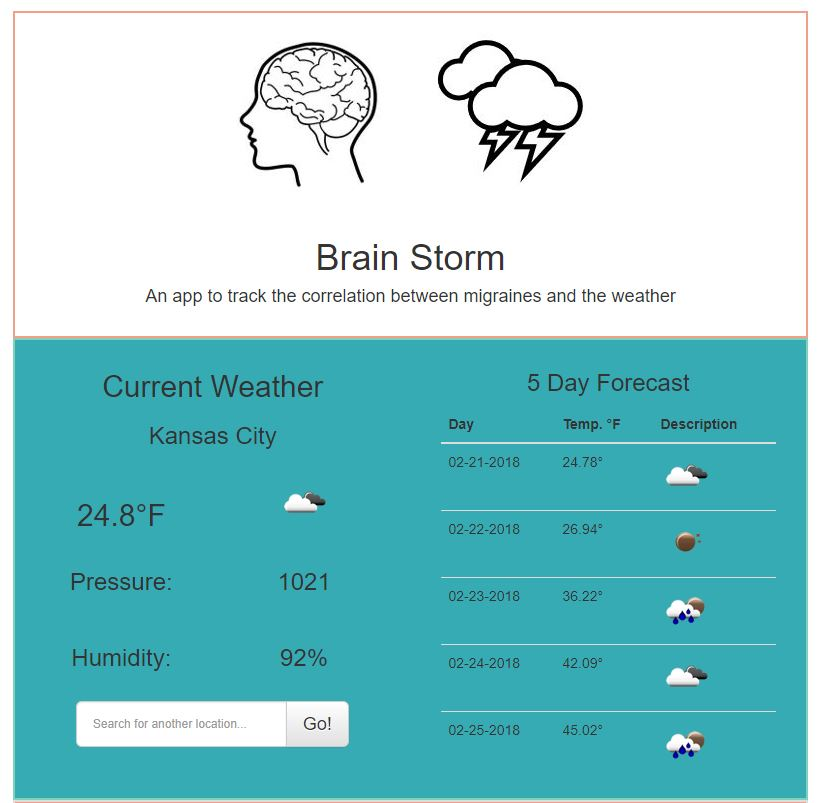
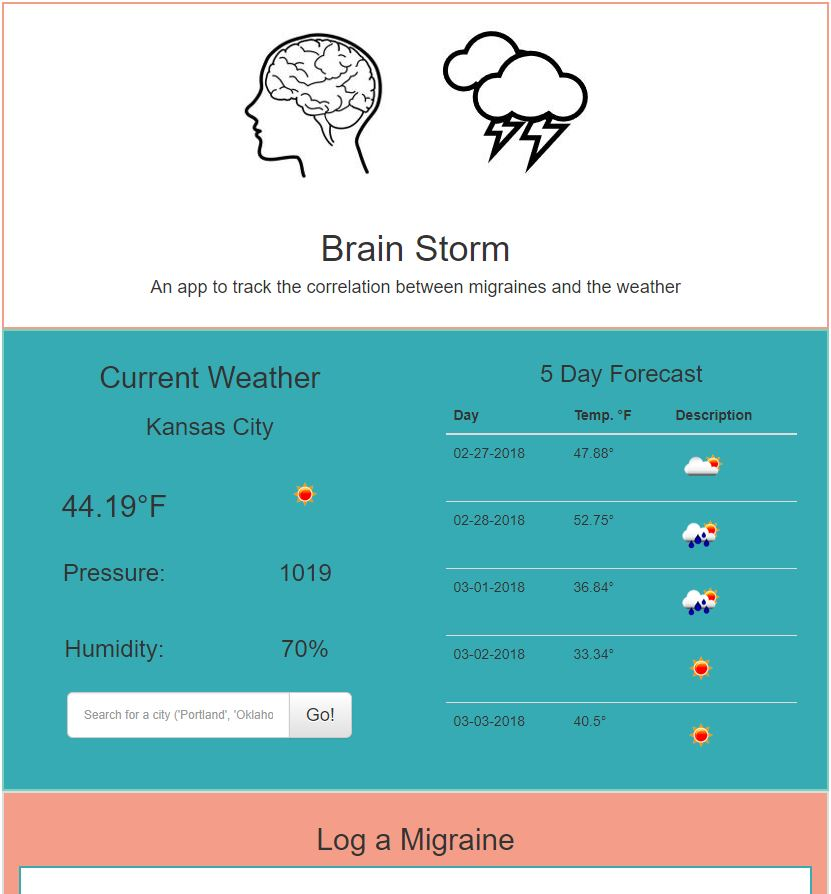
portfolio images

diff --git a/index.html b/index.html
@@ -393,7 +393,9 @@
 
 	         	<div class="bgrid folio-item">
 	               <div class="item-wrap">
-	               	<img src="images/currency-converter.JPG" alt="Currency">
+	               	<img src="images/$-2.JPG" alt="Currency">
+                  <img src="images/$-2.JPG" alt="Currency">
+                  <img src="images/$-2.JPG" alt="Currency">
 	                  <a href="#modal-01" class="overlay">
 	                     <div class="folio-item-table">
 	                     	<div class="folio-item-cell">
@@ -409,7 +411,7 @@
 
               <div class="bgrid folio-item">
 	               <div class="item-wrap">
-	               	<img src="images/portfolio/beetle.jpg" alt="Beetle">
+	               	<img src="images/whole30.JPG" alt="whole30">
 	                  <a href="#modal-04" class="overlay">
 	                     <div class="folio-item-table">
 	                     	<div class="folio-item-cell">
@@ -425,7 +427,7 @@
 
 	            <div class="bgrid folio-item">
 	               <div class="item-wrap">
-	               	<img src="images/brain-storm-1.JPG" alt="Brain Storm">
+	               	<img src="images/brainstormimage.JPG" alt="Brain Storm">
 	                  <a href="#modal-03" class="overlay">
 	                     <div class="folio-item-table">
 	                     	<div class="folio-item-cell">
@@ -441,7 +443,7 @@
 
               <div class="bgrid folio-item">
 	               <div class="item-wrap">
-	               	<img src="images/portfolio/shutterbug.jpg" alt="Shutterbug">
+	               	<img src="images/tv2.JPG" alt="TV">
 	               	<a href="#modal-02" class="overlay">
 	                     <div class="folio-item-table">
 	                     	<div class="folio-item-cell">
@@ -457,7 +459,7 @@
 
 	        		<div class="bgrid folio-item">
 	               <div class="item-wrap">
-	               	<img src="images/portfolio/lighthouse.jpg" alt="Lighthouse">
+	               	<img src="images/food-2.JPG" alt="Food Quiz">
 	                  <a href="#modal-05" class="overlay">
 	                     <div class="folio-item-table">
 	                     	<div class="folio-item-cell">
@@ -471,141 +473,115 @@
 	               </div>
 	        		</div> <!-- /folio-item -->
 
-	            <div class="bgrid folio-item">
+	          <!--  <div class="bgrid folio-item">
 	               <div class="item-wrap">
-	               	<img src="images/portfolio/salad.jpg" alt="Salad">
+	               	<img src="images/portfolio/clouds.jpg" alt="TBD">
 	                  <a href="#modal-06" class="overlay">
-	                     <div class="folio-item-table">
+	                    <div class="folio-item-table">
 	                     	<div class="folio-item-cell">
-	                     		<h3 class="folio-title">Salad</h3>
-		     					    	<span class="folio-types">
-		     					       	  Branding
-		     					      </span>
-		     					   </div>
-	                     </div>
+	                     		<h3 class="folio-title">TBD</h3>
+		     					    	  <span class="folio-types">
+		     					       	  TBD
+		     					        </span>
+		     					      </div>
+	                    </div>
 	                  </a>
 	               </div>
 	        		</div> <!-- /folio-item -->
 
 	            <!-- modal popups - begin
 	            ============================================================= -->
-	            <div id="modal-01" class="popup-modal slider mfp-hide">
-
-				     	<div class="media">
-				     		<img src="images/portfolio/modals/m-liberty.jpg" alt="" />
-				     	</div>
-
+          <div id="modal-01" class="popup-modal slider mfp-hide">
+				   	 <div class="media">
+				     	   <img src="images/currency-converter.JPG" alt="" />
+				      </div>
 					   <div class="description-box">
-					      <h4>Liberty</h4>
-					      <p>Proin gravida nibh vel velit auctor aliquet. Aenean sollicitudin, lorem quis bibendum auctor, nisi elit consequat ipsum, nec sagittis sem nibh id elit.</p>
+				         <h4>Currency Converter</h4>
+				         <p>This app updates the conversion rates from USD to the listed currencies as the user types the amount they want to see converted.</p>
+					    </div>
+			       <div class="link-box">
+		                 <a href="https://haleytownsend.github.io/API-CUR/">View website</a>
+                     <a href="https://github.com/haleytownsend/API-CUR">View code</a>
+					           <a href="#" class="popup-modal-dismiss">Close</a>
+			           </div>
+				  </div> <!-- /modal-01 -->
 
-					      <div class="categories">Web Development</div>
-					   </div>
 
-			         <div class="link-box">
-			            <a href="http://www.behance.net">Details</a>
-					      <a href="#" class="popup-modal-dismiss">Close</a>
-			         </div>
-
-				   </div> <!-- /modal-01 -->
-
-				   <div id="modal-02" class="popup-modal slider mfp-hide">
-
+           <div id="modal-02" class="popup-modal slider mfp-hide">
 				     	<div class="media">
-				     		<img src="images/portfolio/modals/m-shutterbug.jpg" alt="" />
+				         <img src="images/tv2.JPG" alt="" />
 				     	</div>
-
-					   <div class="description-box">
-					      <h4>Shutterbug</h4>
-					      <p>Proin gravida nibh vel velit auctor aliquet. Aenean sollicitudin, lorem quis bibendum auctor, nisi elit consequat ipsum, nec sagittis sem nibh id elit.</p>
-
-					      <div class="categories">Web Design</div>
-					   </div>
-
-			         <div class="link-box">
-			            <a href="http://www.behance.net">Details</a>
-					      <a href="#" class="popup-modal-dismiss">Close</a>
-			         </div>
-
+					    <div class="description-box">
+					       <h4>Thinkful Tube</h4>
+					       <p></p>
+					    </div>
+              <div class="link-box">
+                 <a href="https://haleytownsend.github.io/thinkfulTube/">View website</a>
+                 <a href="https://github.com/haleytownsend/thinkfulTube">View code</a>
+                 <a href="#" class="popup-modal-dismiss">Close</a>
+              </div>
 				   </div> <!-- /modal-02 -->
 
 				   <div id="modal-03" class="popup-modal slider mfp-hide">
 
 				     	<div class="media">
-				     		<img src="images/portfolio/modals/m-clouds.jpg" alt="" />
+				     		<img src="images/brainstormimage.JPG" alt="" />
 				     	</div>
 
 					   <div class="description-box">
-					      <h4>Clouds</h4>
-					      <p>Proin gravida nibh vel velit auctor aliquet. Aenean sollicitudin, lorem quis bibendum auctor, nisi elit consequat ipsum, nec sagittis sem nibh id elit.</p>
-
-					      <div class="categories">Web Design</div>
+					      <h4>Brain Storm</h4>
+					      <p>Single page app used to track migraine symptoms and the local weather. A line chart shows the correlation between the barometric pressure and the level of pain for each migraine entry.</p>
 					   </div>
-
-			         <div class="link-box">
-			            <a href="http://www.behance.net">Details</a>
-					      <a href="#" class="popup-modal-dismiss">Close</a>
-			         </div>
-
+             <div class="link-box">
+                <a href="https://brainstorm-v2.herokuapp.com/">View website</a>
+                <a href="https://github.com/haleytownsend/brainstorm-v2">View code</a>
+              <a href="#" class="popup-modal-dismiss">Close</a>
+             </div>
 				   </div> <!-- /modal-03 -->
 
 				   <div id="modal-04" class="popup-modal slider mfp-hide">
-
 				     	<div class="media">
 				     		<img src="images/portfolio/modals/m-beetle.jpg" alt="" />
 				     	</div>
-
-					   <div class="description-box">
-					      <h4>Beetle</h4>
-					      <p>Proin gravida nibh vel velit auctor aliquet. Aenean sollicitudin, lorem quis bibendum auctor, nisi elit consequat ipsum, nec sagittis sem nibh id elit.</p>
-
-					      <div class="categories">Branding</div>
+					    <div class="description-box">
+					       <h4>Whole 30</h4>
+					       <p></p>
 					   </div>
-
-			         <div class="link-box">
-			            <a href="http://www.behance.net">Details</a>
-					      <a href="#" class="popup-modal-dismiss">Close</a>
-			         </div>
-
+             <div class="link-box">
+                <a href="https://whole30.herokuapp.com/">View website</a>
+                <a href="https://github.com/haleytownsend/whole30">View code</a>
+                <a href="#" class="popup-modal-dismiss">Close</a>
+             </div>
 				   </div> <!-- /modal-04 -->
 
 				   <div id="modal-05" class="popup-modal slider mfp-hide">
-
 				     	<div class="media">
-				     		<img src="images/portfolio/modals/m-lighthouse.jpg" alt="" />
+				     		<img src="images/portfolio/salad.jpg" alt="" />
 				     	</div>
-
-					   <div class="description-box">
-					      <h4>Lighthouse</h4>
-					      <p>Proin gravida nibh vel velit auctor aliquet. Aenean sollicitudin, lorem quis bibendum auctor, nisi elit consequat ipsum, nec sagittis sem nibh id elit.</p>
-
-					      <div class="categories">Web Development</div>
-					   </div>
-
-			         <div class="link-box">
-			            <a href="http://www.behance.net">Details</a>
-					      <a href="#" class="popup-modal-dismiss">Close</a>
-			         </div>
-
+					    <div class="description-box">
+					       <h4>Food Quiz</h4>
+					       <p></p>
+					    </div>
+              <div class="link-box">
+                 <a href="https://haleytownsend.github.io/trivia-api/">View website</a>
+                 <a href="https://github.com/haleytownsend/trivia-api">View code</a>
+                 <a href="#" class="popup-modal-dismiss">Close</a>
+              </div>
 				   </div> <!-- /modal-05 -->
 
-				   <div id="modal-06" class="popup-modal slider mfp-hide">
-
-				     	<div class="media">
-				     		<img src="images/portfolio/modals/m-salad.jpg" alt="" />
-				     	</div>
-
+				 <!--  <div id="modal-06" class="popup-modal slider mfp-hide">
+				     <div class="media">
+				    		<img src="images/portfolio/modals/clouds.jpg" alt="" />
+				     </div>
 					   <div class="description-box">
-					      <h4>Salad</h4>
-					      <p>Proin gravida nibh vel velit auctor aliquet. Aenean sollicitudin, lorem quis bibendum auctor, nisi elit consequat ipsum, nec sagittis sem nibh id elit.</p>
-
-					      <div class="categories">Branding</div>
+					      <h4>TBD</h4>
+					      <p></p>
 					   </div>
-
-			         <div class="link-box">
-			            <a href="http://www.behance.net">Details</a>
-					      <a href="#" class="popup-modal-dismiss">Close</a>
-			         </div>
+             <div class="link-box">
+                <a href="#">View website</a>
+                <a href="#">View code</a>
+                <a href="#" class="popup-modal-dismiss">Close</a>
+             </div>
 
 				   </div> <!-- /modal-06 -->
 
@@ -861,7 +837,7 @@
    			<h5>Contact</h5>
    			<h1>I'd Love To Hear From You.</h1>
 
-   			<p class="lead">Lorem ipsum Do commodo in proident enim in dolor cupidatat adipisicing dolore officia nisi aliqua incididunt Ut veniam lorem ipsum Consectetur ut in in eu do.</p>
+   			<p class="lead"></p>
 
    		</div>
    	</div> <!-- /section-intro -->

diff --git a/css/main.css b/css/main.css
@@ -1944,7 +1944,7 @@ header .logo a {
 	display: block;
 	text-align: center;
 	float: left;
-	width: 50%;
+	width: 33.3%;
 	-moz-transition: all 0.3s ease-in-out;
 	-o-transition: all 0.3s ease-in-out;
 	-webkit-transition: all 0.3s ease-in-out;
